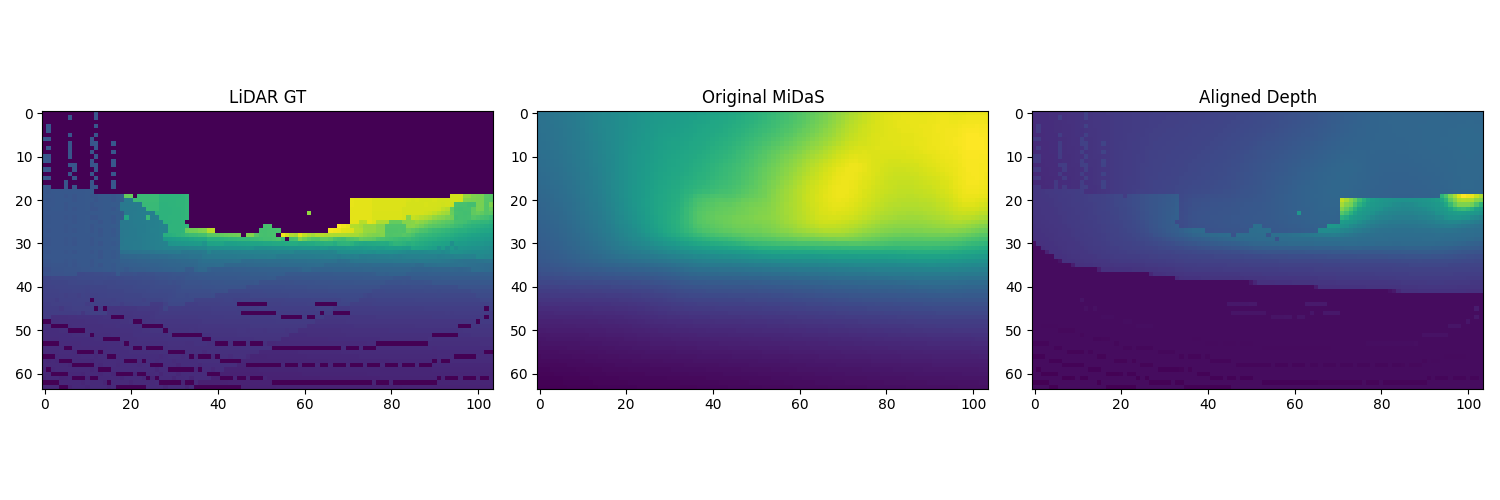
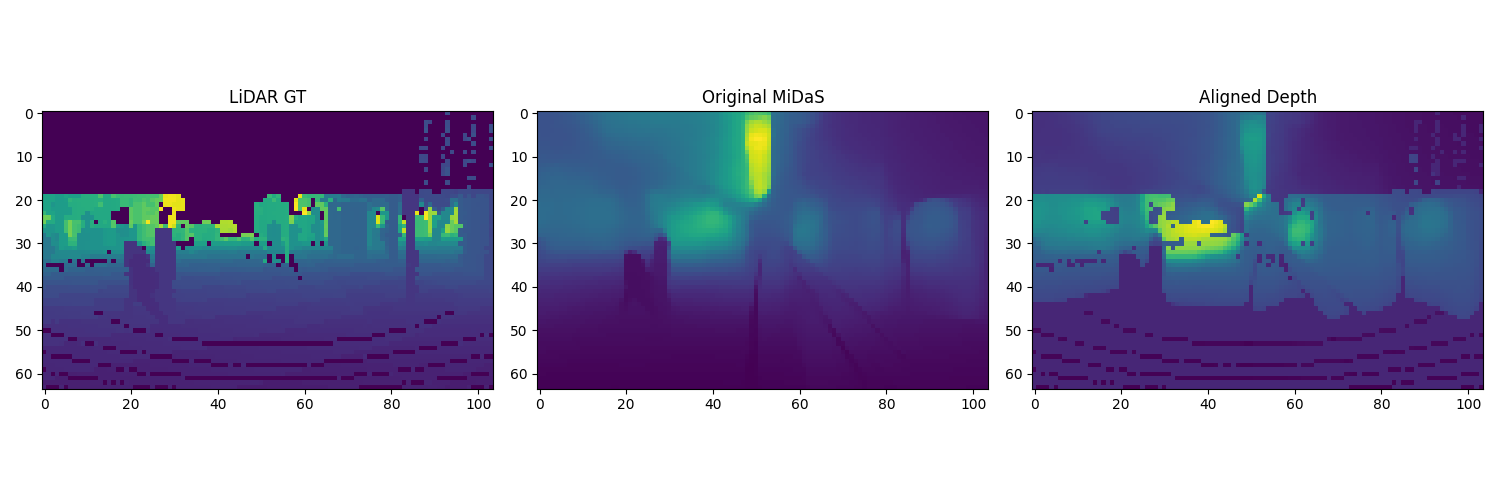
update nuscenes dataset

diff --git a/lidardepth.py b/lidardepth.py
@@ -30,7 +30,7 @@ def image_show(data, name, layout, cmap=None):
 # FILENAME = 'tutorial/frames'
 # TODO: Change this to your own setting
 # filepath = '/media/wzh/datasets/openlane/waymo/segment-11392401368700458296_1086_429_1106_429_with_camera_labels.tfrecord'
-filepath= 'individual_files_validation_segment-18305329035161925340_4466_730_4486_730_with_camera_labels.tfrecord'
+filepath= 'individual_files_validation_segment-17791493328130181905_1480_000_1500_000_with_camera_labels.tfrecord'
 imgname= filepath.rsplit('.', 1)[0]
 imgname = os.path.join('Depth', imgname) #保存的文件夹
 if not os.path.exists(imgname):
@@ -42,9 +42,9 @@ FILENAME = filepath
 #     [tf.config.LogicalDeviceConfiguration(memory_limit=4*1024)])
 physical_devices = tf.config.list_physical_devices('GPU')
 try:
-  # os.environ["CUDA_VISIBLE_DEVICES"] = "1"
+  os.environ["CUDA_VISIBLE_DEVICES"] = "1"
   tf.config.experimental.set_memory_growth(physical_devices[0], True)
-  # tf.config.experimental.set_memory_growth(physical_devices[1], True)
+  tf.config.experimental.set_memory_growth(physical_devices[1], True)
 except:
   # Invalid device or cannot modify virtual devices once initialized.
   pass
@@ -734,7 +734,7 @@ def vectorized_constrain(reversed_normalized, output, threshold=0.2):
     return result
 
 # 设置误差阈值（20%）
-ERROR_THRESHOLD = 0.5  # 20% relative error
+ERROR_THRESHOLD = 2  # 20% relative error
 
 # 设置最大深度（用于可视化）
 MAX_DEPTH = 148.0  # LiDAR最大探测距离

diff --git a/nuscenes/vis.py b/nuscenes/vis.py
@@ -1,0 +1,39 @@
+import numpy as np
+import cv2
+
+file = "/home/zhaohui1.wang/github/datasets/nuscenes/samples/LIDAR_TOP/n008-2018-08-01-15-16-36-0400__LIDAR_TOP__1533151603547590.pcd.bin"
+
+# [x, y, z, intensity, ring index]
+pc = np.frombuffer(open(file, "rb").read(), dtype=np.float32)
+pc = pc.reshape(-1, 5)[:, :4]
+
+x, y, z, intensity = pc.T
+
+# 设置图像的尺寸1024x1024
+image_size = 500
+
+# 数据归一化
+# 点的坐标范围大概是100
+pc_range = 100
+x = x / pc_range    # [-1,1]
+y = y / pc_range
+
+# 缩放到图像大小，并平移到图像中心
+half_image_size = image_size / 2
+x = x * half_image_size + half_image_size
+y = y * half_image_size + half_image_size
+
+# opencv的图像，可以用numpy进行创建
+image = np.zeros((image_size, image_size, 3), np.uint8)
+
+for ix, iy, iz in zip(x, y, z):
+    ix = int(ix)
+    iy = int(iy)
+    
+    # 判断是否在图像范围内
+    if ix >= 0 and ix < image_size and iy >= 0 and iy < image_size:
+        image[iy, ix] = 255, 255, 255 #有物体就设为？
+
+cv2.imwrite("pointcloud.jpg", image)
+# cv2.imshow("image", image)
+# cv2.waitKey(0)

diff --git a/nuscenes/convert_kitti.py b/nuscenes/convert_kitti.py
@@ -1,0 +1,15 @@
+import numpy as np
+
+file = "/home/zhaohui1.wang/github/datasets/nuscenes/samples/LIDAR_TOP/n008-2018-08-01-15-16-36-0400__LIDAR_TOP__1533151603547590.pcd.bin"
+
+pc = np.frombuffer(open(file, "rb").read(), dtype=np.float32)
+pc = pc.reshape(-1, 5)[:, :4]
+
+x, y, z, intensity = pc.T
+
+arr = np.zeros(x.shape[0] + y.shape[0] + z.shape[0] + intensity.shape[0], dtype=np.float32)
+arr[::4] = x
+arr[1::4] = y
+arr[2::4] = z
+arr[3::4] = intensity
+arr.astype('float32').tofile('kitti.bin')
